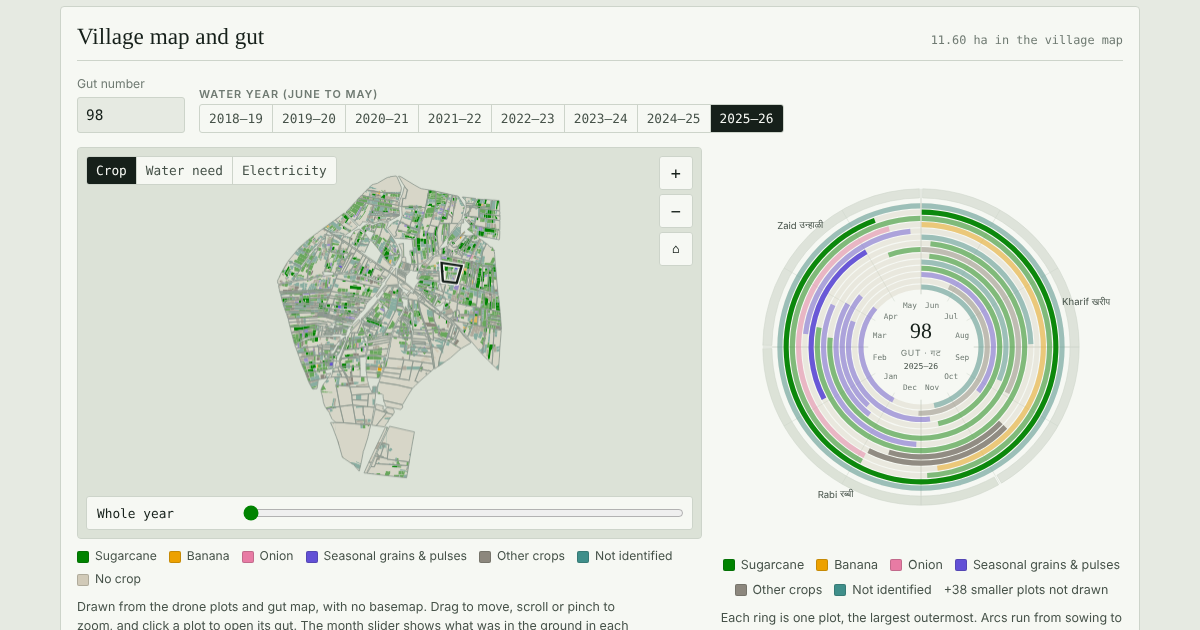
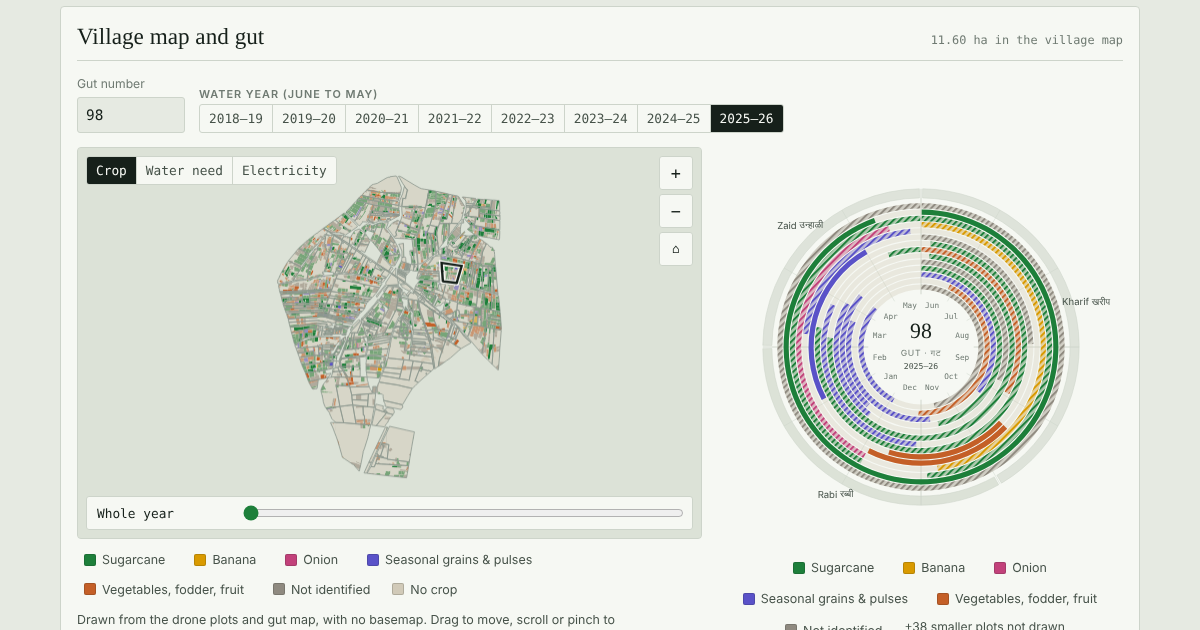
Crop ledger: interactive ring (hover, month scrub, crop focus) and distinct crop colours
Claude-Session: https://claude.ai/code/session_01AeCNQnfFEUviJPwJctg2U4

diff --git a/loni_viewer_v3/loni_crop_ledger.html b/loni_viewer_v3/loni_crop_ledger.html
@@ -1,3 +1,4 @@
+<meta charset="utf-8">
 <title>Loni Devkar Crop Ledger</title>
 <meta name="claude:viewport-fit-sides" content="cover">
 <link rel="preconnect" href="https://fonts.googleapis.com">
@@ -10,7 +11,7 @@
   --paper-solid:#f6f8f3;
   --ink:#16201a; --ink-2:#465249; --ink-3:#6f7a72; --rule:#cdd4ca; --gut:#8b978e;
   --kharif:#dee3da;
-  --g-sugarcane:#008300; --g-banana:#eda100; --g-onion:#e87ba4; --g-seasonal:#6250d6; --g-other:#8c877d; --g-unknown:#3f8f8a;
+  --g-sugarcane:#1d7f3a; --g-banana:#d99a00; --g-onion:#c2417a; --g-seasonal:#5a52c8; --g-other:#c45f27; --g-unknown:#8f8a80;
   --ok:#1c7722; --flag:#b8812b; --bad:#b0412e;
   --w-lo:#e9eef0; --w-hi:#1f5f8b; --e-lo:#f3ecdc; --e-hi:#a2461a; --sel:#16201a;
   --f-display:"Tiro Devanagari Marathi","Noto Serif Devanagari",Georgia,serif;
@@ -20,12 +21,12 @@
 @media (prefers-color-scheme: dark){:root:not([data-theme="light"]){
   --ground:#0d1311; --land:#131b18; --soil:#2c2e28; --paper-solid:#121916;
   --ink:#e6ece7; --ink-2:#b2bcb5; --ink-3:#86918a; --rule:#27322d; --gut:#4a5951; --kharif:#18221e;
-  --g-sugarcane:#2a9d2a; --g-banana:#c98500; --g-onion:#d55181; --g-seasonal:#9085e9; --g-other:#8d8a83; --g-unknown:#5fb3ab;
+  --g-sugarcane:#48c46c; --g-banana:#f0c23a; --g-onion:#ec7fae; --g-seasonal:#a29bf3; --g-other:#ef9561; --g-unknown:#8e8a82;
   --w-lo:#1a2428; --w-hi:#6fb6e6; --e-lo:#262219; --e-hi:#f0a060; --sel:#f3f7f4; --ok:#88d479; --flag:#d6a240; --bad:#e0796a; color-scheme:dark}}
 :root[data-theme="dark"]{
   --ground:#0d1311; --land:#131b18; --soil:#2c2e28; --paper-solid:#121916;
   --ink:#e6ece7; --ink-2:#b2bcb5; --ink-3:#86918a; --rule:#27322d; --gut:#4a5951; --kharif:#18221e;
-  --g-sugarcane:#2a9d2a; --g-banana:#c98500; --g-onion:#d55181; --g-seasonal:#9085e9; --g-other:#8d8a83; --g-unknown:#5fb3ab;
+  --g-sugarcane:#48c46c; --g-banana:#f0c23a; --g-onion:#ec7fae; --g-seasonal:#a29bf3; --g-other:#ef9561; --g-unknown:#8e8a82;
   --w-lo:#1a2428; --w-hi:#6fb6e6; --e-lo:#262219; --e-hi:#f0a060; --sel:#f3f7f4; --ok:#88d479; --flag:#d6a240; --bad:#e0796a; color-scheme:dark}
 body{background:var(--ground);color:var(--ink);font:400 15px/1.55 var(--f-ui)}
 .wrap{max-width:1080px;margin:0 auto;padding-block:22px 56px;padding-left:max(16px,env(safe-area-inset-left,0px));padding-right:max(16px,env(safe-area-inset-right,0px));display:grid;grid-template-columns:minmax(0,1fr);gap:18px}
@@ -101,6 +102,21 @@ footer{font-size:.8rem;color:var(--ink-3);display:grid;gap:3px}
 #tip b{font-weight:600}
 .gutacc{display:grid;grid-template-columns:minmax(0,1.3fr) minmax(0,1fr);gap:18px;align-items:start}
 @media (max-width:760px){.gutacc{grid-template-columns:minmax(0,1fr)}}
+
+.ringbox{position:relative}
+#ring .arc{cursor:pointer;transition:opacity .15s}
+#ring.dim .arc:not(.on){opacity:.22}
+#ring.focus .arc:not(.f){opacity:.1}
+#ring .trk{transition:stroke-width .15s}
+#ring .trk.hl{stroke:var(--ink);stroke-width:1.4}
+#ring .monthzone{cursor:pointer}
+#ringTip{position:absolute;pointer-events:none;background:var(--paper-solid);border:1px solid var(--rule);border-radius:3px;padding:6px 8px;font-size:.76rem;line-height:1.4;max-width:230px;box-shadow:0 6px 18px -10px rgba(0,0,0,.4);z-index:2}
+#ringTip b{font-weight:600}
+.lgb{font:inherit;font-size:.78rem;color:var(--ink-2);background:transparent;border:1px solid transparent;border-radius:99px;padding:2px 9px 2px 6px;cursor:pointer;display:inline-flex;align-items:center;gap:6px}
+.lgb:hover{border-color:var(--rule)}
+.lgb[aria-pressed="true"]{border-color:var(--ink);color:var(--ink)}
+.lgdim .lgb[aria-pressed="false"]{opacity:.45}
+.hatch{background-image:repeating-linear-gradient(135deg,currentColor 0 2px,transparent 2px 5px)}
 @media (prefers-reduced-motion:reduce){*{transition:none!important}}
 </style>
 
@@ -135,7 +151,8 @@ footer{font-size:.8rem;color:var(--ink-3);display:grid;gap:3px}
     <div class="ringbox">
       <svg id="ring" viewBox="0 0 440 440" role="img" aria-labelledby="ringTitle"><title id="ringTitle">Crop calendar ring</title></svg>
       <div class="legend" id="ringLegend"></div>
-      <p class="sub" style="text-align:center;font-size:.78rem">Each ring is one plot, the largest outermost. Arcs run from sowing to harvest; June is at the top and the year runs clockwise. Faded arcs are weak curve matches; outlined arcs were checked in the field.</p>
+      <div id="ringTip" hidden></div>
+      <p class="sub" style="text-align:center;font-size:.78rem">Each ring is one plot, the largest outermost. Arcs run from sowing to harvest, June at the top, clockwise. Striped arcs are weak curve matches; outlined arcs were checked in the field. Point at an arc to see it on the map, click a month to scrub the map to it, and click a crop below to isolate it.</p>
     </div>
   </div>
   <div class="facts" id="gutFacts"></div>
@@ -300,34 +317,58 @@ function arcPath(cx,cy,r0,r1,a0,a1){
   if(a1-a0>=359.9){a1=a0+359.9;}
   const L=a1-a0>180?1:0,[x0,y0]=polar(cx,cy,r1,a0),[x1,y1]=polar(cx,cy,r1,a1),[x2,y2]=polar(cx,cy,r0,a1),[x3,y3]=polar(cx,cy,r0,a0);
   return `M${x0.toFixed(2)},${y0.toFixed(2)}A${r1},${r1} 0 ${L} 1 ${x1.toFixed(2)},${y1.toFixed(2)}L${x2.toFixed(2)},${y2.toFixed(2)}A${r0},${r0} 0 ${L} 0 ${x3.toFixed(2)},${y3.toFixed(2)}Z`;}
+const UI={month:-1,focus:null,ringU:-1};
+const GRPS=["sugarcane","banana","onion","seasonal","other","unknown"];
+const GN={sugarcane:"Sugarcane",banana:"Banana",onion:"Onion",seasonal:"Seasonal grains & pulses",other:"Vegetables, fodder, fruit",unknown:"Not identified"};
 function drawRing(g){
   const [a,b]=D.wyIdx[wyi], span=b-a, cx=220, cy=220, R0=62, R1=158;
   const plots=unitsOf[g].filter(u=>!D.u[u][1]).sort((p,q)=>D.u[q][2]-D.u[p][2]);
   const MAXT=14, shown=plots.slice(0,MAXT), n=Math.max(shown.length,1), tw=(R1-R0)/n;
-  let s=`<title>Crop calendar ring, gut ${esc(D.gut[g])}</title>`;
-  // season band: Kharif Jun–Oct, Rabi Nov–Feb, Zaid Mar–May
+  let s=`<title>Crop calendar ring, gut ${esc(D.gut[g])}</title><defs>`+GRPS.map(gp=>`<pattern id="wk-${gp}" width="5" height="5" patternUnits="userSpaceOnUse" patternTransform="rotate(45)"><rect width="5" height="5" fill="var(--g-${gp})" fill-opacity=".28"/><rect width="2.2" height="5" fill="var(--g-${gp})"/></pattern>`).join("")+`</defs>`;
   const bands=[[0,5,"Kharif","खरीप"],[5,9,"Rabi","रब्बी"],[9,12,"Zaid","उन्हाळी"]];
   bands.forEach(([m0,m1,en,mr],k)=>{s+=`<path d="${arcPath(cx,cy,R1+6,R1+16,m0*30+.6,m1*30-.6)}" fill="var(--${k===1?"land":"kharif"})" stroke="var(--rule)" stroke-width=".6"/>`;
     const [tx,ty]=polar(cx,cy,R1+30,(m0+m1)*15);s+=`<text x="${tx.toFixed(1)}" y="${ty.toFixed(1)}" text-anchor="middle" dominant-baseline="middle" font-size="10.5" font-family="var(--f-ui)" fill="var(--ink-2)">${en} <tspan font-family="var(--f-display)">${mr}</tspan></text>`;});
   for(let m=0;m<12;m++){const ang=m*30;const [x0,y0]=polar(cx,cy,R0-4,ang),[x1,y1]=polar(cx,cy,R1+16,ang);
     s+=`<line x1="${x0.toFixed(1)}" y1="${y0.toFixed(1)}" x2="${x1.toFixed(1)}" y2="${y1.toFixed(1)}" stroke="var(--rule)" stroke-width="${m%3?0.5:1}"/>`;
-    const [lx,ly]=polar(cx,cy,R0-15,ang+15);s+=`<text x="${lx.toFixed(1)}" y="${ly.toFixed(1)}" text-anchor="middle" dominant-baseline="middle" font-size="8.5" font-family="var(--f-data)" fill="var(--ink-3)">${MON[m]}</text>`;}
+    s+=`<path class="monthzone" data-m="${m}" d="${arcPath(cx,cy,R0-24,R0-5,ang+.5,ang+29.5)}" fill="${UI.month===m?"var(--ink)":"transparent"}" fill-opacity="${UI.month===m?.1:0}"><title>Show ${MON[m]} on the map</title></path>`;
+    const [lx,ly]=polar(cx,cy,R0-15,ang+15);s+=`<text x="${lx.toFixed(1)}" y="${ly.toFixed(1)}" text-anchor="middle" dominant-baseline="middle" font-size="8.5" font-family="var(--f-data)" fill="var(--${UI.month===m?"ink":"ink-3"})" ${UI.month===m?'font-weight="600"':''} pointer-events="none">${MON[m]}</text>`;}
+  const present=new Set();
   shown.forEach((u,k)=>{const r1=R1-k*tw, r0=r1-tw+Math.min(1.4,tw*.18);
-    s+=`<path d="${arcPath(cx,cy,r0,r1,0,359.99)}" fill="var(--soil)" fill-opacity=".35"/>`;
-    for(let c=D.us0[u];c<D.us0[u+1];c++){let so=cyc(c,1),eo=cyc(c,2);if(eo<a||so>=b||so===0&&eo<a)continue;
+    s+=`<path class="trk" data-u="${u}" d="${arcPath(cx,cy,r0,r1,0,359.99)}" fill="var(--soil)" fill-opacity=".35" stroke="none"/>`;
+    for(let c=D.us0[u];c<D.us0[u+1];c++){let so=cyc(c,1),eo=cyc(c,2);if(eo<a||so>=b)continue;
       const s0=Math.max(so,a),e0=Math.min(eo+1,b);if(e0<=s0)continue;
-      const a0=(s0-a)/span*360,a1=(e0-a)/span*360,cr=CR[cyc(c,0)],lo=cyc(c,3);
-      s+=`<path d="${arcPath(cx,cy,r0,r1,a0+.3,a1-.3)}" fill="var(--g-${cr.grp})" fill-opacity="${lo===1?.45:.95}" ${lo===2?'stroke="var(--ink)" stroke-width="1.2"':''}><title>${esc(cr.en)} · plot ${D.u[u][3]} (${haTxt(D.u[u][2])}) · sown ${dstr(so)} · harvested ${dstr(eo)}${lo===1?" · weak match":lo===2?" · field-checked":""}</title></path>`;}
+      const a0=(s0-a)/span*360,a1=(e0-a)/span*360,cr=CR[cyc(c,0)],lo=cyc(c,3);present.add(cr.grp);
+      const f=UI.focus===cr.grp?" f":"";
+      s+=`<path class="arc${f}" data-u="${u}" data-c="${c}" d="${arcPath(cx,cy,r0,r1,a0+.3,a1-.3)}" fill="${lo===1?`url(#wk-${cr.grp})`:`var(--g-${cr.grp})`}" ${lo===2?'stroke="var(--ink)" stroke-width="1.3"':''}/>`;}
   });
-  const tot=unitsOf[g].reduce((t,u)=>t+D.u[u][2],0);
-  s+=`<text x="${cx}" y="${cy-10}" text-anchor="middle" font-family="var(--f-display)" font-size="24" fill="var(--ink)">${esc(D.gut[g])}</text>
-      <text x="${cx}" y="${cy+10}" text-anchor="middle" font-family="var(--f-ui)" font-size="9.5" fill="var(--ink-3)" letter-spacing=".08em">GUT · गट</text>
-      <text x="${cx}" y="${cy+24}" text-anchor="middle" font-family="var(--f-data)" font-size="9" fill="var(--ink-2)">${D.wys[wyi]}–${String(D.wys[wyi]+1).slice(2)}</text>`;
-  $("#ring").innerHTML=s;
-  const groups=[...new Set(CR.map(c=>c.grp))];
-  const GN={sugarcane:"Sugarcane",banana:"Banana",onion:"Onion",seasonal:"Seasonal grains & pulses",other:"Other crops",unknown:"Not identified"};
-  $("#ringLegend").innerHTML=groups.map(gp=>`<span class="chip"><span class="sw" style="background:var(--g-${gp})"></span>${GN[gp]}</span>`).join("")+(plots.length>MAXT?`<span>+${plots.length-MAXT} smaller plots not drawn</span>`:"");
+  if(UI.month>=0){const ang=UI.month*30+15,[x0,y0]=polar(cx,cy,R0-3,ang),[x1,y1]=polar(cx,cy,R1+18,ang);
+    s+=`<line x1="${x0.toFixed(1)}" y1="${y0.toFixed(1)}" x2="${x1.toFixed(1)}" y2="${y1.toFixed(1)}" stroke="var(--ink)" stroke-width="1.6" stroke-linecap="round" pointer-events="none"/><circle cx="${x1.toFixed(1)}" cy="${y1.toFixed(1)}" r="3.2" fill="var(--ink)" pointer-events="none"/>`;}
+  s+=`<text x="${cx}" y="${cy-10}" text-anchor="middle" font-family="var(--f-display)" font-size="24" fill="var(--ink)" pointer-events="none">${esc(D.gut[g])}</text>
+      <text x="${cx}" y="${cy+10}" text-anchor="middle" font-family="var(--f-ui)" font-size="9.5" fill="var(--ink-3)" letter-spacing=".08em" pointer-events="none">GUT · गट</text>
+      <text x="${cx}" y="${cy+24}" text-anchor="middle" font-family="var(--f-data)" font-size="9" fill="var(--ink-2)" pointer-events="none">${D.wys[wyi]}–${String(D.wys[wyi]+1).slice(2)}</text>`;
+  const ring=$("#ring");ring.innerHTML=s;ring.classList.toggle("focus",!!UI.focus);
+  const el=$("#ringLegend");el.classList.toggle("lgdim",!!UI.focus);
+  el.innerHTML=GRPS.filter(gp=>present.has(gp)||UI.focus===gp).map(gp=>legendBtn(gp)).join("")+(plots.length>MAXT?`<span style="font-size:.76rem">+${plots.length-MAXT} smaller plots not drawn</span>`:"");
 }
+function legendBtn(gp){return `<button type="button" class="lgb" data-grp="${gp}" aria-pressed="${UI.focus===gp}"><span class="sw" style="background:var(--g-${gp})"></span>${GN[gp]}</button>`;}
+function setFocus(gp){UI.focus=UI.focus===gp?null:gp;if(curGut>=0)drawRing(curGut);if(typeof mapLegend==="function")mapLegend();if(typeof draw==="function"&&W0)draw();}
+document.addEventListener("click",e=>{const b=e.target.closest(".lgb");if(b)setFocus(b.dataset.grp);});
+function ringTipHtml(u,c){const cr=CR[cyc(c,0)],lo=cyc(c,3),so=cyc(c,1),eo=cyc(c,2);
+  return `<b>${esc(cr.en)}</b> <span class="mr" style="font-size:.85rem">${esc(cr.mr)}</span><br>Plot ${D.u[u][3]} · ${haTxt(D.u[u][2])}<br><span class="sub">sown ${dstr(so)}<br>harvested ${dstr(eo)} · ${so?nf0.format((eo-so)*D.step)+" days":""}</span>${lo===1?"<br><span class='sub'>weak curve match</span>":lo===2?"<br><span class='sub'>checked in the field</span>":""}`;}
+function ringFocusPlot(u){const ring=$("#ring");ring.querySelectorAll(".arc.on").forEach(e=>e.classList.remove("on"));ring.querySelectorAll(".trk.hl").forEach(e=>e.classList.remove("hl"));
+  if(u<0){ring.classList.remove("dim");return;}
+  const arcs=ring.querySelectorAll(`.arc[data-u="${u}"]`);arcs.forEach(e=>e.classList.add("on"));const t=ring.querySelector(`.trk[data-u="${u}"]`);if(t)t.classList.add("hl");ring.classList.toggle("dim",!!t);}
+(function(){const ring=$("#ring"),tipR=$("#ringTip"),box=ring.parentElement;
+  function place(e){const r=box.getBoundingClientRect();const w=tipR.offsetWidth,h=tipR.offsetHeight;let x=e.clientX-r.left+14,y=e.clientY-r.top+14;if(x+w>r.width)x=e.clientX-r.left-w-14;tipR.style.left=Math.max(4,x)+"px";tipR.style.top=Math.max(4,Math.min(y,r.height-h-4))+"px";}
+  ring.addEventListener("pointermove",e=>{const a=e.target.closest(".arc");
+    if(!a){if(UI.ringU>=0){UI.ringU=-1;ringFocusPlot(-1);tipR.hidden=true;if(typeof setMapHover==="function")setMapHover(-1);}return;}
+    const u=+a.dataset.u,c=+a.dataset.c;tipR.innerHTML=ringTipHtml(u,c);tipR.hidden=false;place(e);
+    if(UI.ringU!==u){UI.ringU=u;ringFocusPlot(u);if(typeof setMapHover==="function")setMapHover(u);}});
+  ring.addEventListener("pointerleave",()=>{UI.ringU=-1;ringFocusPlot(-1);tipR.hidden=true;if(typeof setMapHover==="function")setMapHover(-1);});
+  ring.addEventListener("click",e=>{const mz=e.target.closest(".monthzone");if(mz){const m=+mz.dataset.m;const mi=$("#month");mi.value=UI.month===m?-1:m;mi.dispatchEvent(new Event("input"));return;}
+    const a=e.target.closest(".arc");if(a&&typeof zoomToPlot==="function")zoomToPlot(+a.dataset.u);});
+})();
+
 const T0=Date.parse(D.start+"T00:00:00Z"),DAY=864e5,MO=["Jan","Feb","Mar","Apr","May","Jun","Jul","Aug","Sep","Oct","Nov","Dec"];
 function dstr(i){if(i===0)return "before 2018";const d=new Date(T0+i*D.step*DAY);return d.getUTCDate()+" "+MO[d.getUTCMonth()]+" "+d.getUTCFullYear();}
 
@@ -372,7 +413,7 @@ $("#gutIn").addEventListener("change",pickGut);
 
 // ---------- village ----------
 const GRP=["sugarcane","banana","onion","seasonal","other","unknown"];
-const GRPN={sugarcane:"Sugarcane",banana:"Banana",onion:"Onion",seasonal:"Seasonal grains & pulses",other:"Other crops",unknown:"Not identified"};
+const GRPN={sugarcane:"Sugarcane",banana:"Banana",onion:"Onion",seasonal:"Seasonal grains & pulses",other:"Vegetables, fodder, fruit",unknown:"Not identified"};
 const village=D.wys.map((y,w)=>{const [a,b]=D.wyIdx[w];const ar={};GRP.forEach(g=>ar[g]=0);let et=0,plotA=0;const cane={a:0};
   for(let u=0;u<U;u++){if(D.u[u][1])continue;const A=D.u[u][2];plotA+=A;et+=D.u[u][wyi===w?0:0]===undefined?0:0;
     for(let c=D.us0[u];c<D.us0[u+1];c++){const eo=cyc(c,2),so=cyc(c,1);if(so===0||eo<a||eo>=b)continue;ar[CR[cyc(c,0)].grp]+=A/1e4;}}
@@ -440,7 +481,7 @@ function mainCycle(u){const [a,b]=D.wyIdx[wyi];let best=-1,bl=0;for(let c=D.us0[
 function unitCycle(u){return month<0?mainCycle(u):activeCycle(u,stepOfMonth(month));}
 function unitNeedMm(u){return need(D.et[u][wyi]);}
 function unitFill(u){
-  if(mode==="crop"){if(D.u[u][1])return [mix(PAL.land,PAL.soil,.5),1];const c=unitCycle(u);if(c<0)return [PAL.soil,1];return [PAL.grp[CR[cyc(c,0)].grp],cyc(c,3)===1?.5:1];}
+  if(mode==="crop"){if(D.u[u][1])return [mix(PAL.land,PAL.soil,.5),1];const c=unitCycle(u);if(c<0)return [PAL.soil,1];const gp=CR[cyc(c,0)].grp;if(UI.focus&&gp!==UI.focus)return [mix(PAL.soil,PAL.land,.4),1];return [PAL.grp[gp],cyc(c,3)===1?.5:1];}
   const mm=unitNeedMm(u);
   if(mode==="water"){const t=Math.min(1,mm/1500);return [mix(PAL.wlo,PAL.whi,t),D.u[u][1]?.45:1];}
   const kwhHa=mm*10*kwhPerM3();const t=Math.min(1,kwhHa/5000);return [mix(PAL.elo,PAL.ehi,t),D.u[u][1]?.45:1];}
@@ -459,7 +500,7 @@ function paint(){
   if(V.s>0.55){ctx.font="500 10px "+getComputedStyle(document.body).getPropertyValue("--f-data");ctx.textAlign="center";ctx.textBaseline="middle";
     for(let g=0;g<GPT.length;g++){if(!visible(GB[g]))continue;const w=(GB[g][2]-GB[g][0])*V.s;if(w<26)continue;const x=GC[g][0]*V.s+V.tx,y=GC[g][1]*V.s+V.ty;
       ctx.lineWidth=3;ctx.strokeStyle=`rgba(${PAL.paper.join(",")},.85)`;ctx.strokeText(D.gut[g],x,y);ctx.fillStyle=rgb(PAL.ink);ctx.fillText(D.gut[g],x,y);}}
-  if(hover>=0){path(UP[hover]);ctx.strokeStyle=rgb(PAL.ink);ctx.lineWidth=1.5;ctx.stroke();}
+  if(hover>=0){path(UP[hover]);ctx.strokeStyle=rgb(PAL.paper);ctx.lineWidth=4;ctx.stroke();ctx.strokeStyle=rgb(PAL.ink);ctx.lineWidth=1.8;ctx.stroke();}
   if(curGut>=0){path(GPT[curGut]);ctx.strokeStyle=rgb(PAL.paper);ctx.lineWidth=5;ctx.stroke();ctx.strokeStyle=rgb(PAL.sel);ctx.lineWidth=2.4;ctx.stroke();}
 }
 function inPoly(x,y,p){let inside=false;for(let i=0,j=p.length-2;i<p.length;j=i,i+=2){const xi=p[i],yi=p[i+1],xj=p[j],yj=p[j+1];if(((yi>y)!==(yj>y))&&(x<(xj-xi)*(y-yi)/(yj-yi)+xi))inside=!inside;}return inside;}
@@ -479,21 +520,23 @@ cv.addEventListener("pointermove",e=>{
   if(ptrs.has(e.pointerId))ptrs.set(e.pointerId,[e.offsetX,e.offsetY]);
   if(pinch&&ptrs.size===2){const [a,b]=[...ptrs.values()],d=Math.hypot(a[0]-b[0],a[1]-b[1]),k=d/pinch.d;V.s=pinch.s*k;V.tx=pinch.cx-(pinch.cx-pinch.tx)*k;V.ty=pinch.cy-(pinch.cy-pinch.ty)*k;moved=99;draw();return;}
   if(drag){const dx=e.offsetX-drag.x,dy=e.offsetY-drag.y;moved+=Math.abs(dx)+Math.abs(dy);if(moved>4){cv.classList.add("drag");V.tx+=dx;V.ty+=dy;drag={x:e.offsetX,y:e.offsetY};tip.hidden=true;draw();}return;}
-  if(e.pointerType==="mouse"){const u=hit(e.offsetX,e.offsetY);if(u!==hover){hover=u;draw();}showTip(u,e.offsetX,e.offsetY);}});
+  if(e.pointerType==="mouse"){const u=hit(e.offsetX,e.offsetY);if(u!==hover){hover=u;draw();ringFocusPlot(u>=0&&D.u[u][0]===curGut?u:-1);}showTip(u,e.offsetX,e.offsetY);}});
 function endPtr(e){const wasTap=drag&&moved<=4&&ptrs.size===1;ptrs.delete(e.pointerId);cv.classList.remove("drag");
   if(wasTap){const u=hit(e.offsetX,e.offsetY);if(u>=0){hover=u;selectGut(D.u[u][0],false);showTip(u,e.offsetX,e.offsetY);}else{const x=(e.offsetX-V.tx)/V.s,y=(e.offsetY-V.ty)/V.s;for(let g=0;g<GPT.length;g++){const b=GB[g];if(x>=b[0]&&x<=b[2]&&y>=b[1]&&y<=b[3]&&inPoly(x,y,GPT[g])){selectGut(g,false);break;}}}}
   if(ptrs.size<2)pinch=null;if(ptrs.size===0)drag=null;else if(ptrs.size===1){const p=[...ptrs.values()][0];drag={x:p[0],y:p[1]};}}
 cv.addEventListener("pointerup",endPtr);cv.addEventListener("pointercancel",endPtr);
-cv.addEventListener("pointerleave",e=>{if(e.pointerType==="mouse"){hover=-1;tip.hidden=true;draw();}});
+cv.addEventListener("pointerleave",e=>{if(e.pointerType==="mouse"){hover=-1;tip.hidden=true;draw();ringFocusPlot(-1);}});
+function setMapHover(u){hover=u;draw();}
+function zoomToPlot(u){const b=UB[u],w=b[2]-b[0],h=b[3]-b[1],pad=Math.max(w,h,40)*2.2;fit([b[0]-pad,b[1]-pad,b[2]+pad,b[3]+pad]);hover=u;draw();}
 function zoomAt(k,cx,cy){V.tx=cx-(cx-V.tx)*k;V.ty=cy-(cy-V.ty)*k;V.s*=k;draw();}
 cv.addEventListener("wheel",e=>{e.preventDefault();zoomAt(Math.exp(-e.deltaY*0.0015),e.offsetX,e.offsetY);},{passive:false});
 $("#zIn").onclick=()=>zoomAt(1.5,W0/2,H0/2);$("#zOut").onclick=()=>zoomAt(1/1.5,W0/2,H0/2);$("#zHome").onclick=()=>{fit(EXT);draw();};
 const MODES=[["crop","Crop"],["water","Water need"],["elec","Electricity"]];
 MODES.forEach(([k,n])=>{const b=document.createElement("button");b.type="button";b.textContent=n;b.setAttribute("aria-pressed",k===mode);b.onclick=()=>{mode=k;[...$("#modeSeg").children].forEach(c=>c.setAttribute("aria-pressed",c===b));mapLegend();draw();};$("#modeSeg").appendChild(b);});
 const MONL=["June","July","August","September","October","November","December","January","February","March","April","May"];
-$("#month").addEventListener("input",e=>{month=+e.target.value;const y=D.wys[wyi];$("#monthLab").textContent=month<0?"Whole year · main crop":`${MONL[month]} ${month<7?y:y+1}`;draw();});
+$("#month").addEventListener("input",e=>{month=+e.target.value;UI.month=month;if(curGut>=0)drawRing(curGut);const y=D.wys[wyi];$("#monthLab").textContent=month<0?"Whole year · main crop":`${MONL[month]} ${month<7?y:y+1}`;draw();});
 function mapLegend(){const el=$("#mapLegend");
-  if(mode==="crop"){el.innerHTML=["sugarcane","banana","onion","seasonal","other","unknown"].map(gp=>`<span class="chip"><span class="sw" style="background:var(--g-${gp})"></span>${GRPN[gp]}</span>`).join("")+`<span class="chip"><span class="sw" style="background:var(--soil)"></span>No crop</span>`;}
+  el.classList.toggle("lgdim",mode==="crop"&&!!UI.focus);if(mode==="crop"){el.innerHTML=GRPS.map(gp=>legendBtn(gp)).join("")+`<span class="chip" style="font-size:.78rem"><span class="sw" style="background:var(--soil)"></span>No crop</span>`;}
   else if(mode==="water"){el.innerHTML=`<span>0 mm</span><span class="ramp" style="background:linear-gradient(90deg,var(--w-lo),var(--w-hi))"></span><span>1,500+ mm irrigation need this water year</span>`;}
   else{el.innerHTML=`<span>0</span><span class="ramp" style="background:linear-gradient(90deg,var(--e-lo),var(--e-hi))"></span><span>5,000+ kWh per ha of pump electricity</span>`;}}
 function selectGut(g,zoom){$("#gutIn").value=D.gut[g];$("#gutMsg").hidden=true;renderGut(g);if(zoom){const b=GB[g],w=b[2]-b[0],h=b[3]-b[1],pad=Math.max(w,h)*1.6;fit([b[0]-pad,b[1]-pad,b[2]+pad,b[3]+pad]);}draw();}
